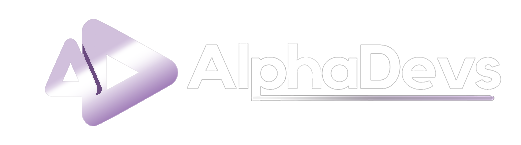
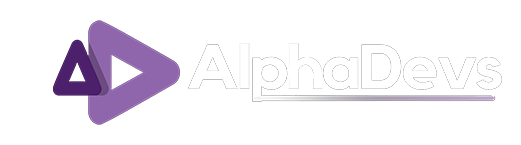
new website

diff --git a/index.html b/index.html
@@ -43,7 +43,7 @@
 					<nav class="main-nav">
 						<!-- ***** Logo Start ***** -->
 						<a href="index.html" class="logo">
-							<img src="assets/images/alpha-dark.png" class="light-logo new-white-logo" alt="Beapp" >
+							<img src="assets/images/alpha-white.png" class="light-logo new-white-logo" alt="Beapp" >
 							<img src="assets/images/alpha-dark.png" class="dark-logo new-dark-logo" alt="Beapp" >
 						</a>
 						<!-- ***** Logo End ***** -->
@@ -84,7 +84,7 @@
 					<div class="col-lg-5 col-md-12 col-sm-12 col-xs-12 align-self-center mt-5 mt-sm-1">
 						<h1>Bring your ideas, we do the rest!</h1>
 						<p>IDEATE | DESIGN | DEVELOPE | DEPLOY</p>
-						<a class="btn-white-line" href="#">OUR WORK</a>
+						<a class="btn-white-line" href="our-work.html">OUR WORK</a>
 					</div>
 					<div class="offset-lg-1 col-lg-6 col-md-12 col-sm-12 col-xs-12 align-self-center">
 						<div class="apps">
@@ -118,7 +118,7 @@
 							IoT, AI etc. Putting the same skills to use has yielded us a good track record in number of
 							events and competitions as well. </p>
 					</div>
-					<a href="#" class="btn-primary-line">OUR SERVICES</a>
+					<a href="services.html" class="btn-primary-line">OUR SERVICES</a>
 				</div>
 				<!-- ***** Home About End ***** -->
 
@@ -162,7 +162,7 @@
 					
 					</div>
 					<div class="row justify-content-center">
-						<a href="#" class="btn-primary-line ">Read More</a>
+						<a href="our-work.html" class="btn-primary-line ">Read More</a>
 					</div>
 				</div>
 				<div class="col-lg-4 col-md-6 col-sm-12 home-work-margin "  >
@@ -179,7 +179,7 @@
 					
 					</div>
 					<div class="row justify-content-center " style="margin-top: 56px;">
-						<a href="#" class="btn-primary-line ">Read More</a>
+						<a href="our-work.html" class="btn-primary-line ">Read More</a>
 					</div>
 				</div>
 				<div class="col-lg-4 col-md-6 col-sm-12 home-work-margin">
@@ -196,7 +196,7 @@
 						
 					</div>
 					<div class="row justify-content-center" style="margin-top: 25px;">
-						<a href="blog-single.html" class="btn-primary-line ">Read More</a>
+						<a href="our-work.html" class="btn-primary-line ">Read More</a>
 					</div>
 				</div>
 			</div>
@@ -309,61 +309,67 @@
 						<h2 class="section-title">Our Team</h2>
 					</div>
 				</div>
-				<div class="offset-lg-2 col-lg-8">
+				<div class="offset-lg-2	 col-lg-8">
 					<div class="center-text">
 						<p>At AlphaDevs our team always strives to help you leverage the tech around you! Meet the innovative, driven and creative individuals behind this initiative!</p>
 					</div>
 				</div>
 			</div>
 			<div class="row justify-content-center">
-				<div class="col-lg-5 col-md-6 col-sm-6 col-xs-12">
-					<div class="team-item home-box-height ">
-						<div class="header">
-							<div class="img">
-								<img src="assets/images/photos/team/kaushik.jpg" alt="" class="team-img">
+				<a href="our-team.html">
+					<div class="col-lg-5 col-md-6 col-sm-6 col-xs-12">
+						<div class="team-item home-box-height ">
+							<div class="header">
+								<div class="img">
+									<img src="assets/images/photos/team/kaushik.jpg" alt="" class="team-img">
+								</div>
+								<div class="info">
+									<strong><b>Kaushik Roy</b> </strong>
+									<span>Project Lead</span>
+								</div>
 							</div>
-							<div class="info">
-								<strong><b>Kaushik Roy</b> </strong>
-								<span>Project Lead</span>
+							<div class="body">
+								Leader of the team and responsible for managing and delegating the work efficiently amongst the teammates whilst being a highly skilled Project Manager with hands on experience in Java & IoT.
 							</div>
+							<ul class="social">
+								<li><a href="#"><i class="fa fa-facebook"></i></a></li>
+								<li><a href="#"><i class="fa fa-twitter"></i></a></li>
+								<li><a href="#"><i class="fa fa-linkedin"></i></a></li>
+								<li><a href="#"><i class="fa fa-github"></i></a></li>
+							</ul>
 						</div>
-						<div class="body">
-							Leader of the team and responsible for managing and delegating the work efficiently amongst the teammates whilst being a highly skilled Project Manager with hands on experience in Java & IoT.
-						</div>
-						<ul class="social">
-							<li><a href="#"><i class="fa fa-facebook"></i></a></li>
-							<li><a href="#"><i class="fa fa-twitter"></i></a></li>
-							<li><a href="#"><i class="fa fa-linkedin"></i></a></li>
-							<li><a href="#"><i class="fa fa-github"></i></a></li>
-						</ul>
 					</div>
-				</div>
-				<div class="col-lg-5 col-md-6 col-sm-6 col-xs-12">
-					<div class="team-item home-box-height">
-						<div class="header">
-							<div class="img">
-								<img src="assets/images/photos/team/hitesh.jpg" alt="" class="team-img">
+				</a>
+			
+				<a href="our-team.html">
+					<div class="col-lg-5 col-md-6 col-sm-6 col-xs-12">
+						<div class="team-item home-box-height">
+							<div class="header">
+								<div class="img">
+									<img src="assets/images/photos/team/hitesh.jpg" alt="" class="team-img">
+								</div>
+								<div class="info">
+									<strong><b>Hitesh Subnani</b></strong>
+									<span>Technical Lead</span>
+								</div>
 							</div>
-							<div class="info">
-								<strong><b>Hitesh Subnani</b></strong>
-								<span>Technical Lead</span>
+							<div class="body">
+								Technical Lead of the team, with proficiency in a multitude of technologies including, but not limited to data science and web development with excellent NodeJS skills. 
 							</div>
+							<ul class="social">
+								<li><a href="#"><i class="fa fa-facebook"></i></a></li>
+								<li><a href="#"><i class="fa fa-twitter"></i></a></li>
+								<li><a href="#"><i class="fa fa-linkedin"></i></a></li>
+								<li><a href="#"><i class="fa fa-github"></i></a></li>
+							</ul>
 						</div>
-						<div class="body">
-							Technical Lead of the team, with proficiency in a multitude of technologies including, but not limited to data science and web development with excellent NodeJS skills. 
-						</div>
-						<ul class="social">
-							<li><a href="#"><i class="fa fa-facebook"></i></a></li>
-							<li><a href="#"><i class="fa fa-twitter"></i></a></li>
-							<li><a href="#"><i class="fa fa-linkedin"></i></a></li>
-							<li><a href="#"><i class="fa fa-github"></i></a></li>
-						</ul>
 					</div>
-				</div>
+				</a>
+		
 				
 			</div>
 			<div class="row justify-content-center mt-4">
-				<a class="btn team-btn" href="contact.html">Know More</a>
+				<a class="btn team-btn" href="our-team.html">Know More</a>
 			</div>
 		</div>
 	</section>

diff --git a/about-us.html b/about-us.html
@@ -54,7 +54,7 @@
 					<nav class="main-nav">
 						<!-- ***** Logo Start ***** -->
 						<a href="index.html" class="logo">
-							<img src="assets/images/alpha-dark.png" class="light-logo new-white-logo" alt="Beapp" >
+							<img src="assets/images/alpha-white.png" class="light-logo new-white-logo" alt="Beapp" >
 							<img src="assets/images/alpha-dark.png" class="dark-logo new-dark-logo" alt="Beapp" >
 						</a>
 						<!-- ***** Logo End ***** -->

diff --git a/contact.html b/contact.html
@@ -53,7 +53,7 @@
 					<nav class="main-nav">
 						<!-- ***** Logo Start ***** -->
 						<a href="index.html" class="logo">
-							<img src="assets/images/alpha-dark.png" class="light-logo new-white-logo" alt="Beapp" >
+							<img src="assets/images/alpha-white.png" class="light-logo new-white-logo" alt="Beapp" >
 							<img src="assets/images/alpha-dark.png" class="dark-logo new-dark-logo" alt="Beapp" >
 						</a>
 						<!-- ***** Logo End ***** -->

diff --git a/our-team.html b/our-team.html
@@ -46,7 +46,7 @@
 					<nav class="main-nav">
 						<!-- ***** Logo Start ***** -->
 						<a href="index.html" class="logo">
-							<img src="assets/images/alpha-dark.png" class="light-logo new-white-logo" alt="Beapp" >
+							<img src="assets/images/alpha-white.png" class="light-logo new-white-logo" alt="Beapp" >
 							<img src="assets/images/alpha-dark.png" class="dark-logo new-dark-logo" alt="Beapp" >
 						</a>
 						<!-- ***** Logo End ***** -->

diff --git a/our-work.html b/our-work.html
@@ -53,7 +53,7 @@
 					<nav class="main-nav">
 						<!-- ***** Logo Start ***** -->
 						<a href="index.html" class="logo">
-							<img src="assets/images/alpha-dark.png" class="light-logo new-white-logo" alt="Beapp" >
+							<img src="assets/images/alpha-white.png" class="light-logo new-white-logo" alt="Beapp" >
 							<img src="assets/images/alpha-dark.png" class="dark-logo new-dark-logo" alt="Beapp" >
 						</a>
 						<!-- ***** Logo End ***** -->

diff --git a/services.html b/services.html
@@ -53,7 +53,7 @@
 					<nav class="main-nav">
 						<!-- ***** Logo Start ***** -->
 						<a href="index.html" class="logo">
-							<img src="assets/images/alpha-dark.png" class="light-logo new-white-logo" alt="Beapp" >
+							<img src="assets/images/alpha-white.png" class="light-logo new-white-logo" alt="Beapp" >
 							<img src="assets/images/alpha-dark.png" class="dark-logo new-dark-logo" alt="Beapp" >
 						</a>
 						<!-- ***** Logo End ***** -->

diff --git a/assets/css/style.css b/assets/css/style.css
@@ -1445,7 +1445,7 @@ home
   width: 100%;
   height: 100%;
   opacity: .78;
-  background-image: linear-gradient(127deg, rgba(56, 76, 255, 0.788) 30%, rgba(36, 204, 255, 0.822) 91%), url(/assets/images/parallax.jpg);
+  background-image: linear-gradient(127deg, rgba(56, 76, 255, 0.788) 30%, rgba(36, 204, 255, 0.822) 91%), url(images/photos/parallax.jpg);
   background-attachment: fixed;
   background-repeat: no-repeat;
   background-position: center;
